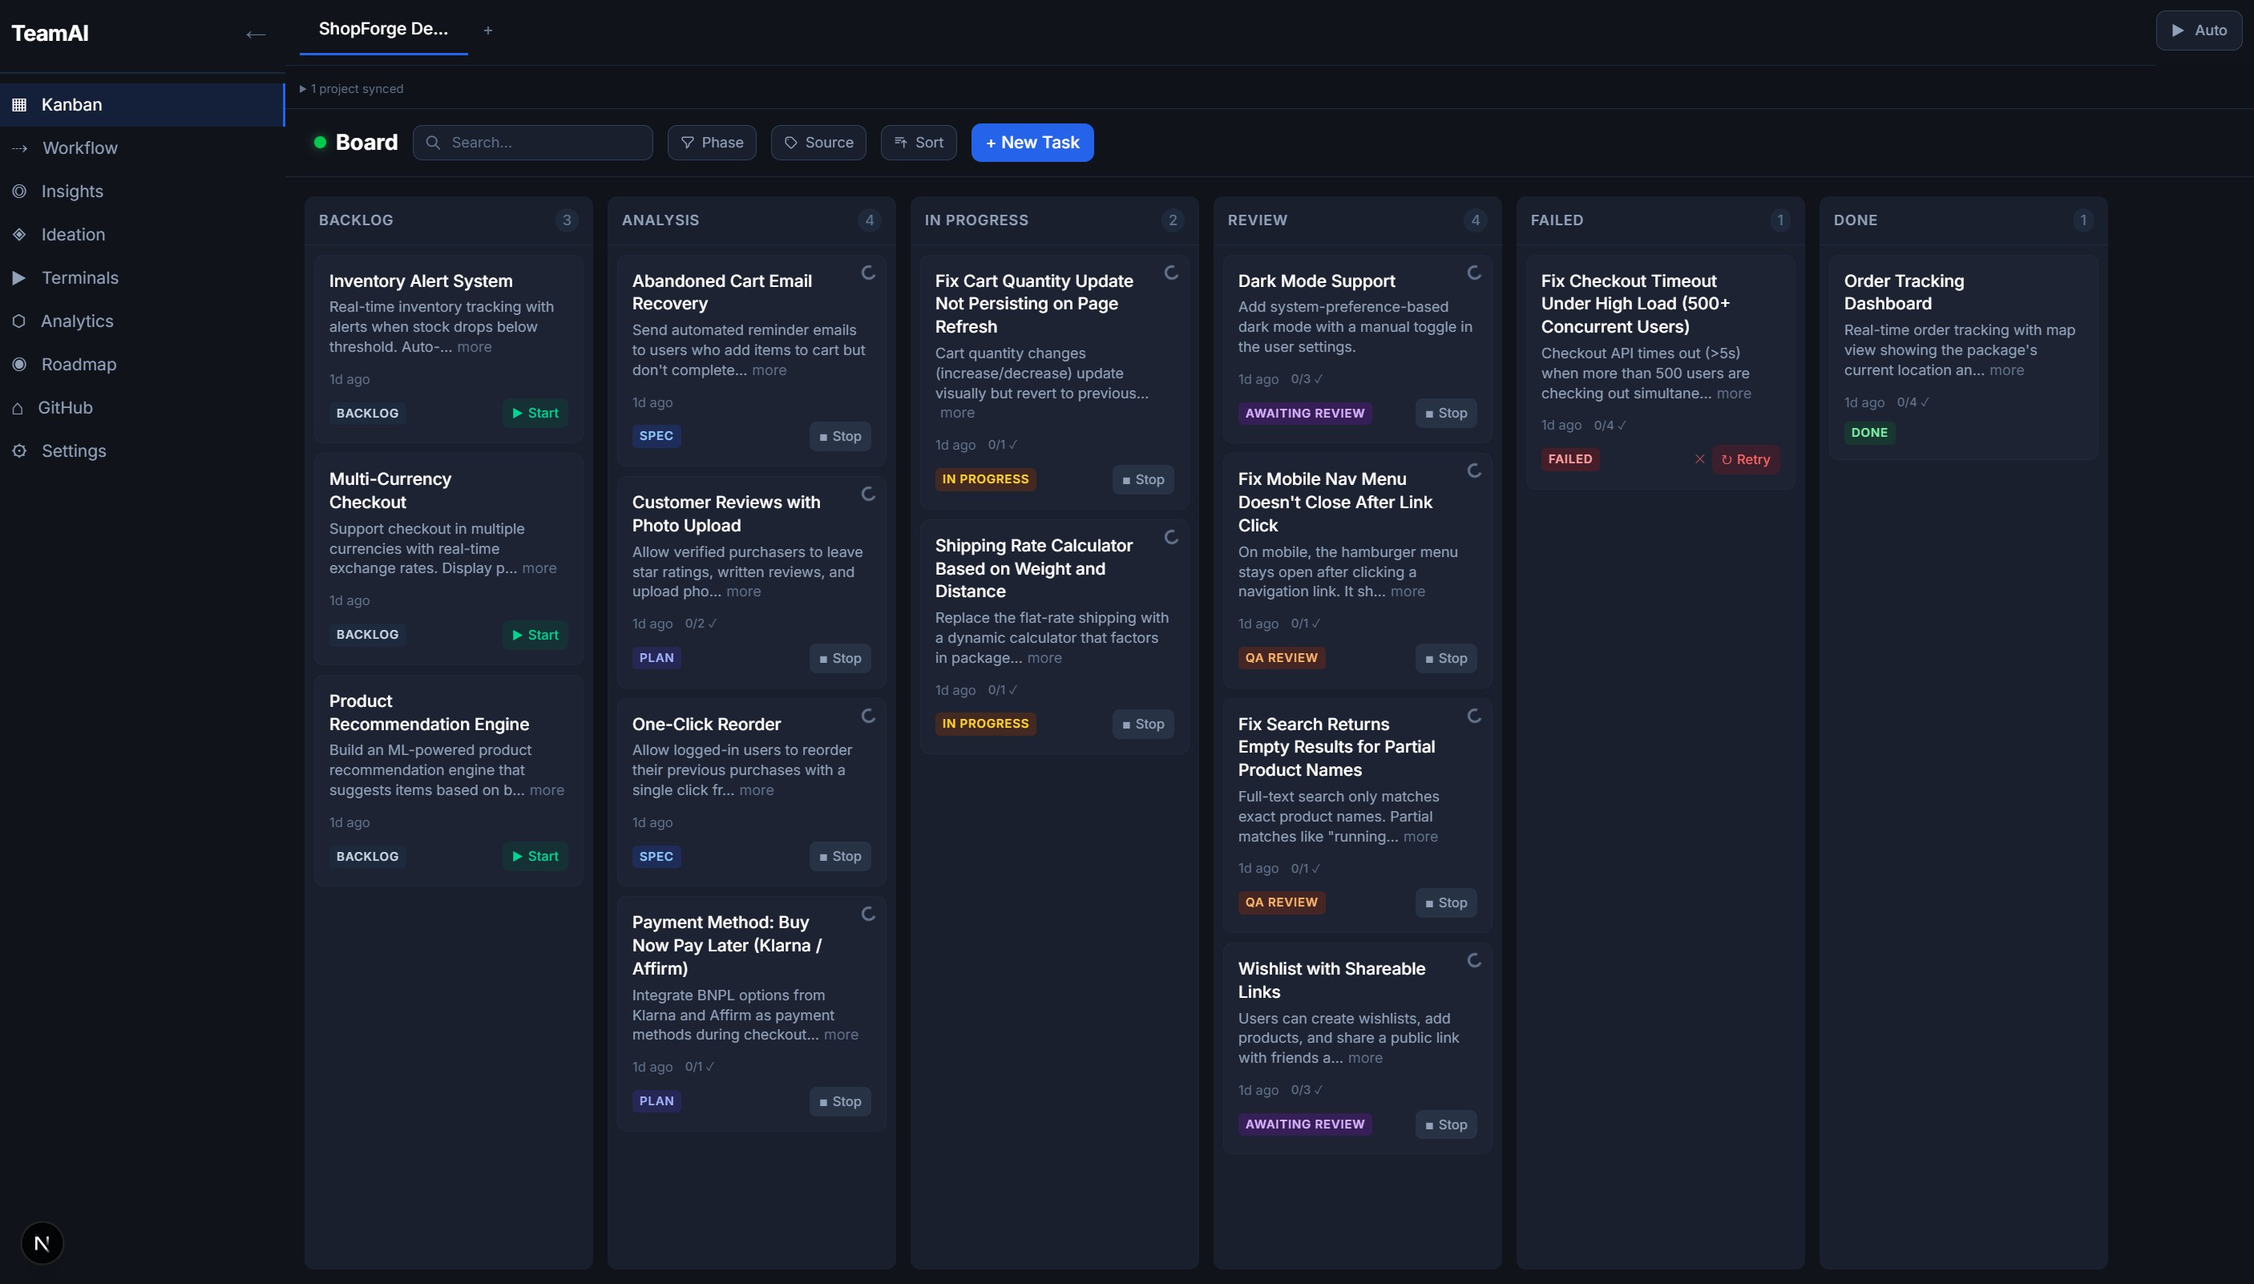
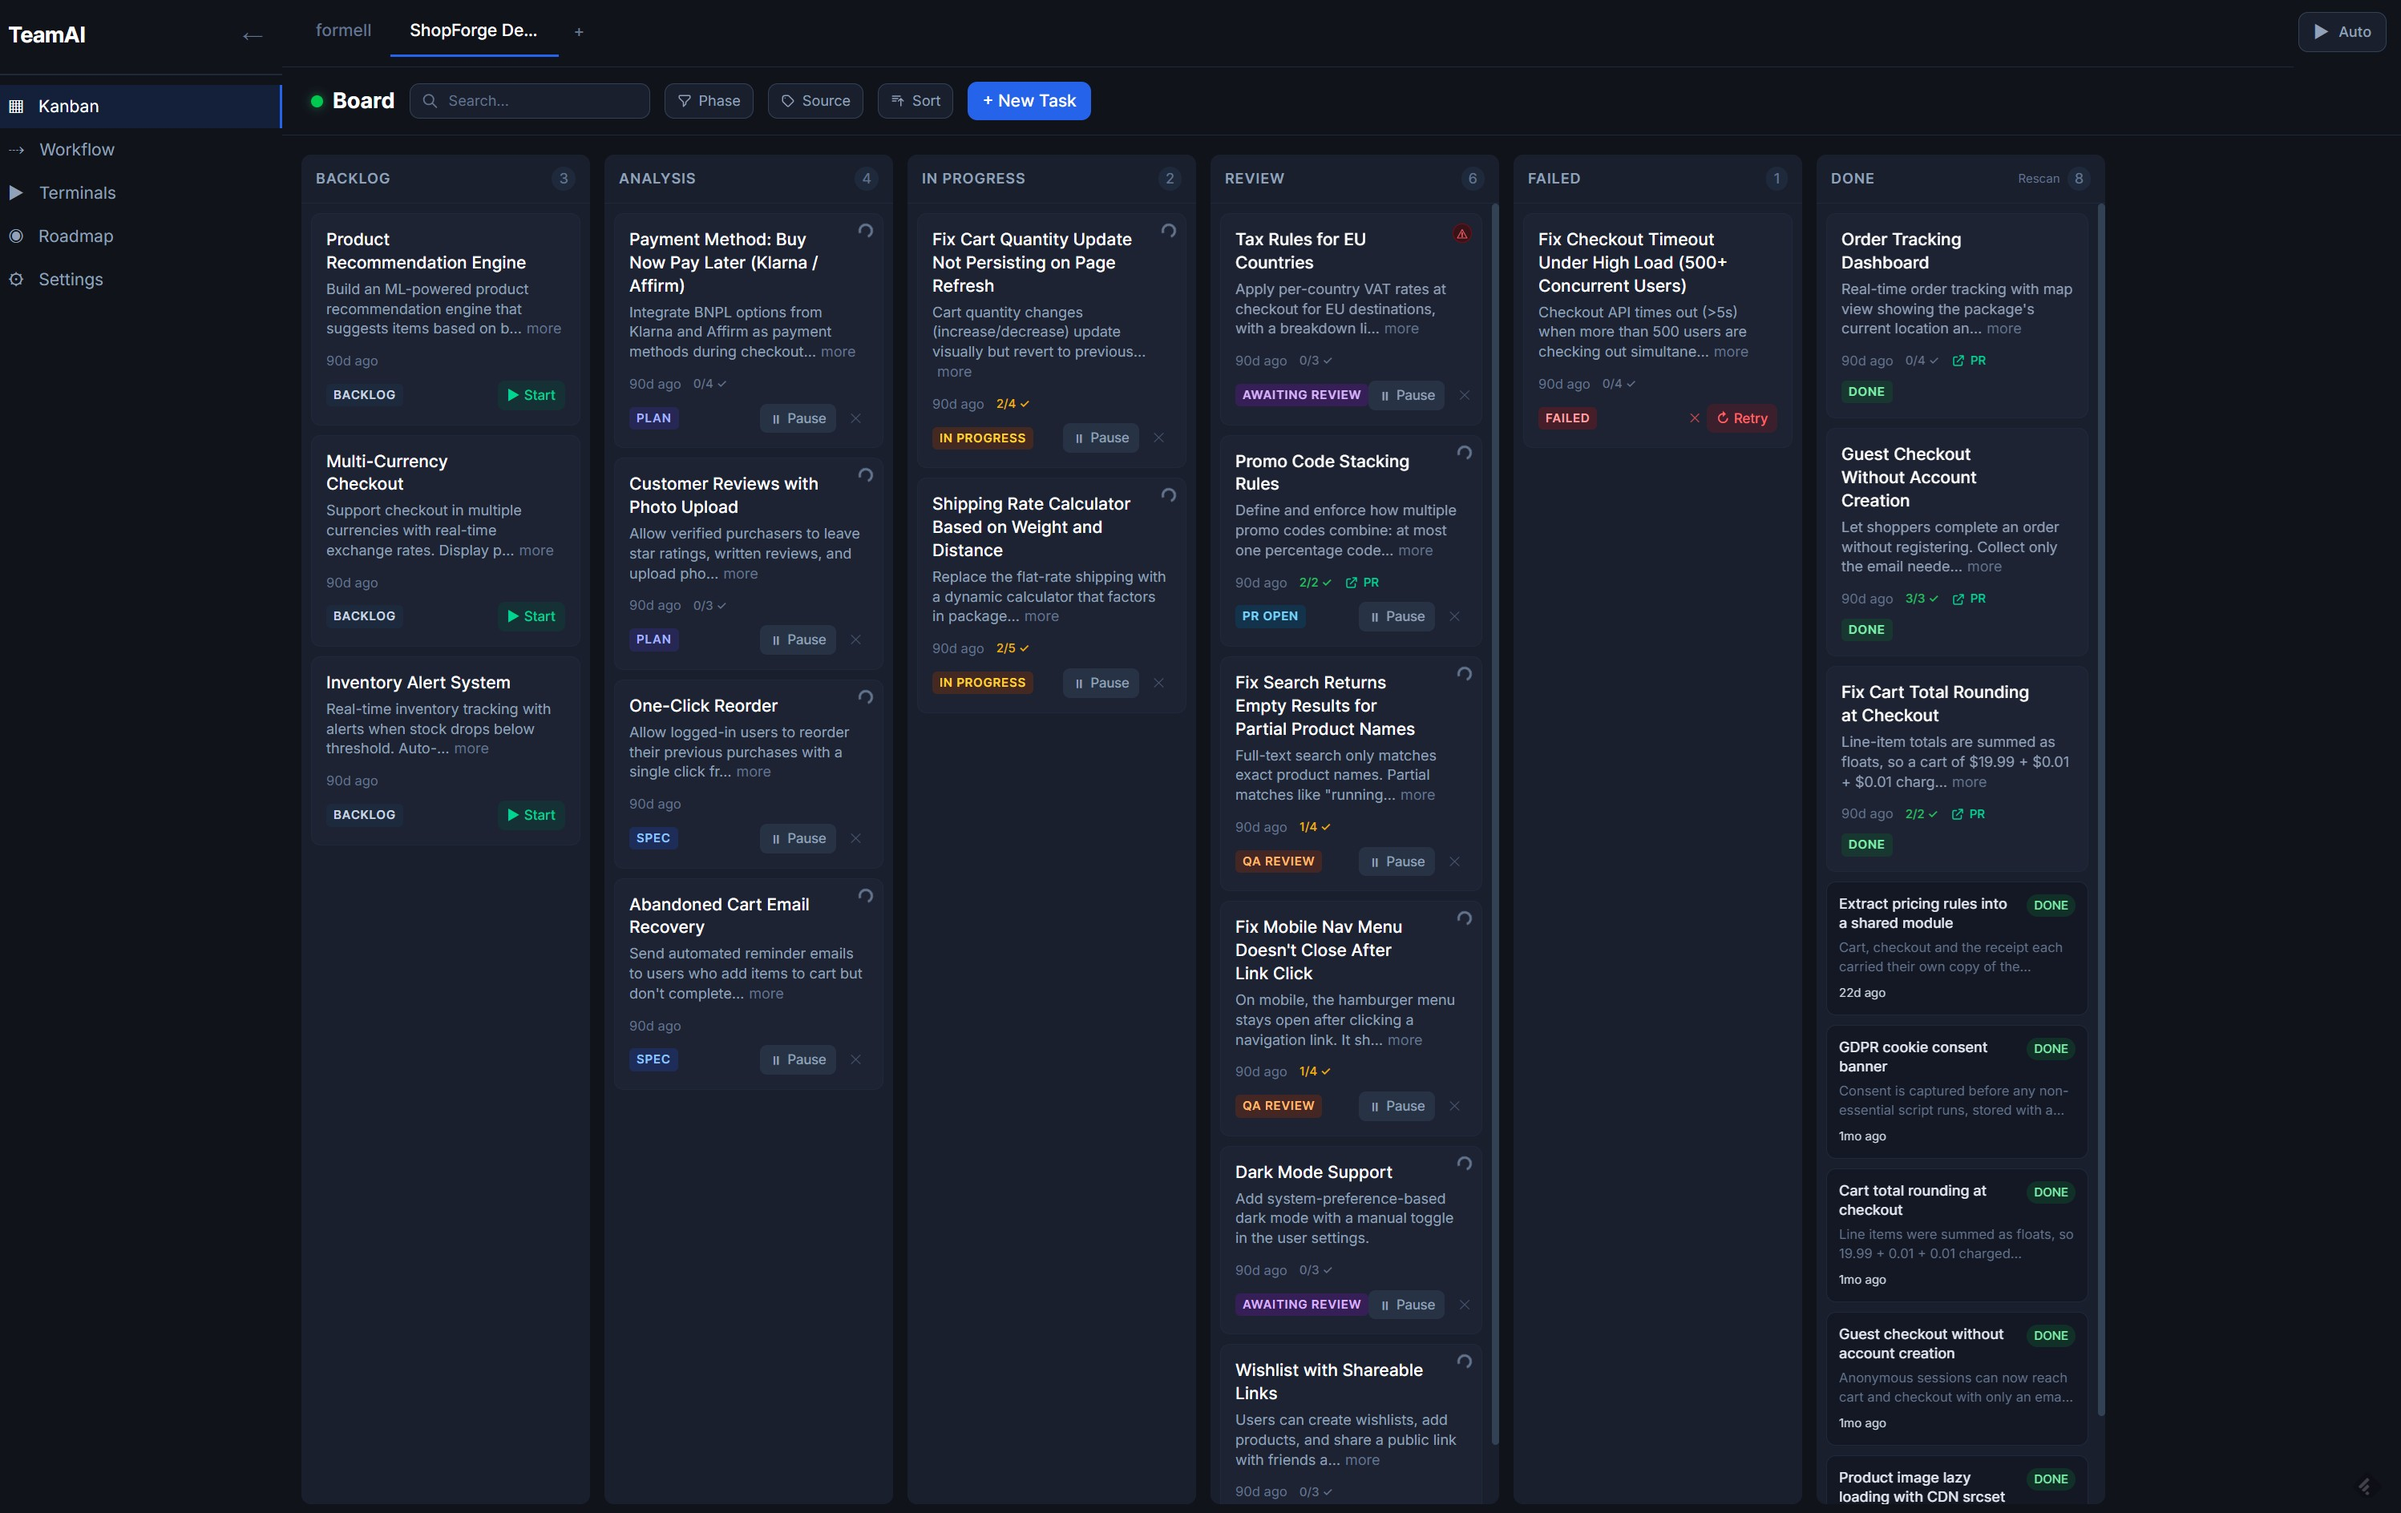
docs: rename Delivered section to History with GitHub-based tracking
Completed tickets ship as pull requests, so the landing page now
describes ticket history as tracked in GitHub rather than in the app's
Delivered column. Uses the retaken board screenshot; delivered.jpg is
removed, and the Board section reserves the new image dimensions.

🤖 Generated with Codebuff

diff --git a/docs/index.html b/docs/index.html
@@ -249,7 +249,7 @@
       <a href="#failures" class="nav-link" onclick="closeNav()">Failures</a>
       <a href="#refine" class="nav-link" onclick="closeNav()">Refinements</a>
       <a href="#auto" class="nav-link" onclick="closeNav()">Auto Mode</a>
-      <a href="#delivered" class="nav-link" onclick="closeNav()">Delivered</a>
+      <a href="#history" class="nav-link" onclick="closeNav()">History</a>
       <a href="#extras" class="nav-link" onclick="closeNav()">Roadmap</a>
       <a href="https://github.com/vmorenoluna/TeamAI" class="nav-link" target="_blank" rel="noopener">GitHub ↗</a>
     </div>
@@ -331,7 +331,7 @@
     <h2>See every task at a glance</h2>
     <p class="section-desc">Tasks are organized into columns by stage. Drag and drop to move them between stages, or let the pipeline advance them automatically. Click any task to see its full details, specification, plan, and review report.</p>
 
-      <img src="images/board.jpg" alt="TeamAI kanban board with tasks across pipeline stages" width="2812" height="1602" loading="lazy" decoding="async" style="max-width:1100px;width:100%;border-radius:12px;display:block;margin:0 auto;">
+      <img src="images/board.jpg" alt="TeamAI kanban board with tasks across pipeline stages" width="2995" height="1888" loading="lazy" decoding="async" style="max-width:1100px;width:100%;border-radius:12px;display:block;margin:0 auto;">
   </div>
 </section>
 
@@ -476,8 +476,6 @@
         <p>Auto mode watches for recurring failures and analyzes them within a daily budget. With a further opt-in, small high-confidence fixes can even be applied and retried automatically, with a safety guard that escalates back to you if a fix doesn't work.</p>
       </div>
     </div>
-
-    <img src="images/analyse-failure.jpg" alt="TeamAI Role Refinement Assistant analyzing a failed task's root cause" width="1134" height="135" loading="lazy" decoding="async" style="max-width:900px;width:100%;margin:36px auto 0;display:block;border-radius:12px;">
   </div>
 </section>
 
@@ -502,15 +500,15 @@
   </div>
 </section>
 
-<!-- ==================== Delivered ==================== -->
-<section id="delivered">
+<!-- ==================== History ==================== -->
+<section id="history">
   <div class="container">
-    <span class="section-label">Delivered</span>
-    <h2>Everything you shipped, in one place</h2>
-    <p class="section-desc">Completed tickets don't disappear. The Delivered column keeps a lasting record of finished work (what was built, which pull request shipped it, and when), so you can look back on the history of your project long after the agents have moved on.</p>
+    <span class="section-label">History</span>
+    <h2>Every ticket, on the record</h2>
+    <p class="section-desc">Completed tickets don't disappear. TeamAI relies on GitHub to track the history of finished work: each ticket ships as a pull request, so what was built, which PR delivered it, and when it merged are all recorded in your repository. Look back on your project's history anytime, right where your code lives.</p>
 
-    <!-- Optional screenshot: drop docs/images/delivered.jpg in and it appears here. While the file is missing this img removes itself on error, so no broken-image icon is shown. -->
-    <img src="images/delivered.jpg" alt="TeamAI Delivered column showing completed tickets with pull request links" width="2812" height="1602" loading="lazy" decoding="async" onerror="this.remove()" style="max-width:1100px;width:100%;margin:48px auto 0;display:block;border-radius:12px;">
+    <!-- Optional screenshot: drop docs/images/board.jpg in and it appears here. While the file is missing this img removes itself on error, so no broken-image icon is shown. -->
+    <img src="images/board.jpg" alt="TeamAI kanban board with completed tickets in the Delivered column and pull request links" width="2995" height="1888" loading="lazy" decoding="async" onerror="this.remove()" style="max-width:1100px;width:100%;margin:48px auto 0;display:block;border-radius:12px;">
   </div>
 </section>
 

diff --git a/demo/README.md b/demo/README.md
@@ -92,12 +92,12 @@ This wipes and recreates `demo/.teamai/`, `demo/.claude/`, `demo/src/` and `demo
 
 Capture screenshots from the running app (with ShopForge registered as the active project) and save them to `docs/images/` — the landing page reads them by relative path from there, so no build step is involved.
 
-All 11 `<img>` tags on the page now carry a `width` and `height`, so lazy loading never shifts the layout.
+All 12 `<img>` tags on the page now carry a `width` and `height`, so lazy loading never shifts the layout.
 
 The three newest sections on `docs/index.html` have live `<img>` tags pointing at screenshots that may not exist yet, so saving the file into `docs/images/` is all that's needed — no HTML edit. Each tag carries a reserved `width`/`height` (taken from the closest matching existing screenshot) to cut layout shift while the image loads, plus an `onerror` that removes the tag while the file is missing, so there's no broken-image icon:
 
-| File | Capture |
-|---|---|
-| `docs/images/terminals.jpg` | Terminals page with a live session open |
+| File                          | Capture |
+|-------------------------------|---|
+| `docs/images/terminals.jpg`   | Terminals page with a live session open |
 | `docs/images/diagnostics.jpg` | A failed task's overview, plus a "Needs attention" parked ticket |
-| `docs/images/delivered.jpg` | The DONE column: PR links on the disk tasks and history cards below |
+| `docs/images/board.jpg`          | The DONE column: PR links on the disk tasks and history cards below |
